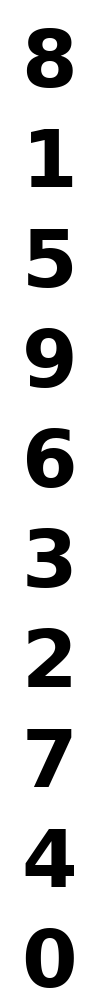
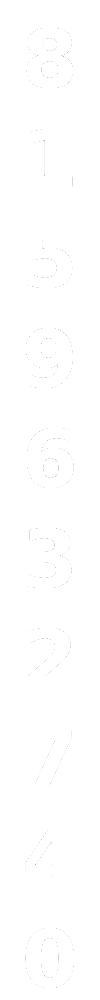
feat: slots

diff --git a/src/style.scss b/src/style.scss
@@ -13,7 +13,30 @@ body {
 	display: flex;
 	justify-content: center;
 	align-items: center;
-	background: linear-gradient(45deg, grey 0%, lightgray 100%);
+	background-color: #000;
+	font-family: sans-serif;
+	// background: linear-gradient(45deg, grey 0%, lightgray 100%);
+}
+
+.popup{
+	position: relative;
+	width: 3.5 * $icon_width;
+	height: fit-content;
+	padding: 30px;
+	border-radius: 10px;
+	display: flex;
+	flex-direction: column;
+	align-items: center;
+	justify-content: center;
+	gap: 10px;
+	background-color: #1c1c1c;
+
+	.title{
+		color: #fff;
+		font-size: 20px;
+		margin: 0;
+		padding: 0;
+	}
 }
 
 .slots {
@@ -21,14 +44,15 @@ body {
 	width: 3.5 * $icon_width;
 	height: 1 * $icon_height;
 	display: flex;
-	justify-content: space-between;
-	padding: 0.3 * $icon_width;
-	background: linear-gradient(45deg, grey 0%, lightgray 100%);
-	border-top: 1px solid rgba(white, 0.6);
-	border-right: 1px solid rgba(white, 0.6);
-	border-left: 1px solid rgba(black, 0.4);
-	border-bottom: 1px solid rgba(black, 0.4);
-	box-shadow: -2px 2px 3px rgba(black, 0.3);
+	justify-content: center;
+	padding: 0.3 * $icon_width ;
+	// padding-right: 60px;
+	background-color: #1c1c1c;
+	// border-top: 1px solid rgba(white, 0.6);
+	// border-right: 1px solid rgba(white, 0.6);
+	// border-left: 1px solid rgba(black, 0.4);
+	// border-bottom: 1px solid rgba(black, 0.4);
+	// box-shadow: -2px 2px 3px rgba(black, 0.3);
 	border-radius: 3px;
 	
 	
@@ -44,20 +68,24 @@ body {
 		100% { background: linear-gradient(45deg, grey 0%, lightgrey 100%); box-shadow: -2px 2px 3px rgba(black, 0.3); }
 	}
 	
-	&.win1 {
-		animation: win1 200ms steps(2, end) infinite;
-	}
-	
-	&.win2 {
-		animation: win2 200ms steps(2, end) infinite;
+	.dollar{
+		font-size: 80px;
+		font-weight: 900;
+		font-family: sans-serif;
+		color: #fff;
+		line-height: 1.275;
+		position: absolute;
+		top: 50%;
+		right: 10%;
+		transform: translateY(-47%);
 	}
 
 	.reel {
 		position: relative;
 		width: $icon_width;
 		height: 1 * $icon_height;
-		border: 1px solid rgba(black, 0.3);
-		border-radius: 3px;
+		border: 1px solid #000;
+		// border-radius: 3px;
 		overflow: hidden;
 		background-image: url(./static/numbers.png);
 		background-position: 0 $icon_height_negative;
@@ -70,8 +98,9 @@ body {
 			left: 0;
 			width: 100%;
 			height: 100%;
-			background-image: linear-gradient(rgba(black, 0.4) 0%, transparent 30%, transparent 70%, rgba(black, 0.4) 100%);
-			box-shadow: inset 0 0 6px 2px rgba(black, 0.3);
+			// background-image: linear-gradient(#362f2f00 0%, #fffdfd29 30% 70%, #362f2f00 100%);
+			// box-shadow: inset 0 0 6px 2px rgba(black, 0.3);
+			z-index: 10;
 		}
 
 	}

diff --git a/src/script.js b/src/script.js
@@ -2,7 +2,7 @@
 /**
  * Setup
  */
-const debugEl = document.getElementById('debug'),
+const //debugEl = document.getElementById('debug'),
 			// Mapping of indexes to icons: start from banana in middle of initial position and then upwards
 			iconMap = [ "one", "eight", "zero", "four", "seven", "two", "three", "six", "nine", "five"],
 			// Width of the icons
@@ -61,7 +61,7 @@ const roll = (reel, offset = 0) => {
  */
 function rollAll() {
 	
-	debugEl.textContent = 'rolling...';
+	// debugEl.textContent = 'rolling...';
 	
 	const reelsList = document.querySelectorAll('.slots > .reel');
 	
@@ -74,8 +74,8 @@ function rollAll() {
 		.then((deltas) => {
 			// add up indexes
 			deltas.forEach((delta, i) => indexes[i] = (indexes[i] + delta)%(num_icons));
-			debugEl.textContent = indexes.map((i) => iconMap[i]).join(' - ');
-			console.log(deltas);
+			// debugEl.textContent = indexes.map((i) => iconMap[i]).join(' - ');
+			// console.log(deltas);
 			// Win conditions
 			// if (indexes[0] == indexes[1] || indexes[1] == indexes[2]) {
 			// 	const winCls = indexes[0] == indexes[2] ? "win2" : "win1";

diff --git a/src/index.html b/src/index.html
@@ -9,12 +9,17 @@
         <link rel="stylesheet" href="./style.scss">
     </head>
     <body>
-        <div class="slots">
-            <div class="reel"></div>
-            <div class="reel"></div>
-            <div class="reel"></div>
-            <div id="debug" class="debug"></div>
-        </div>
+        <!-- <div class="popup"> -->
+            <!-- <div class="title">Жми и получи бонус</div> -->
+            <div class="slots">
+                <div class="reel"></div>
+                <div class="reel"></div>
+                <div class="reel"></div>
+                <!-- <div class="dollar">$</div> -->
+                <!-- <div id="debug" class="debug"></div> -->
+            </div>
+        <!-- </div> -->
+        
          <script type="module" src="./script.js"></script>
     </body>
 </html>
